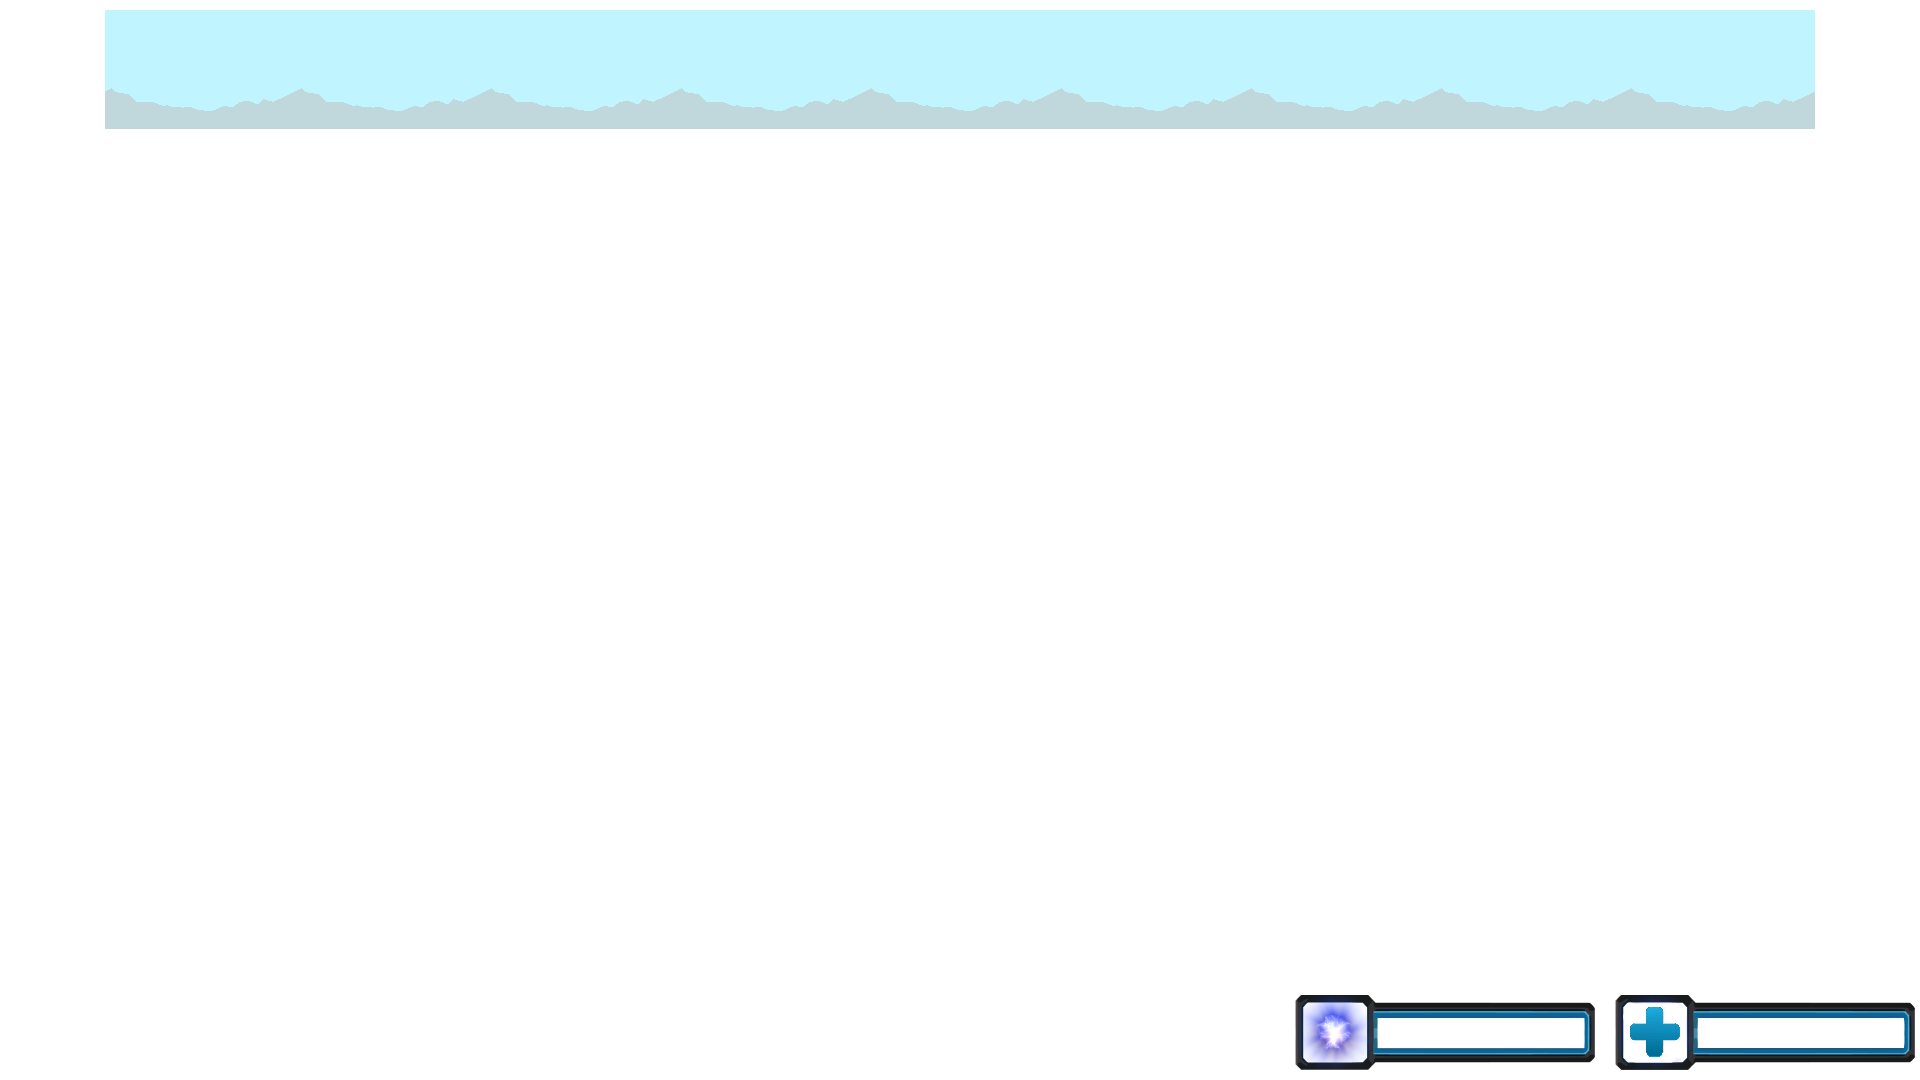
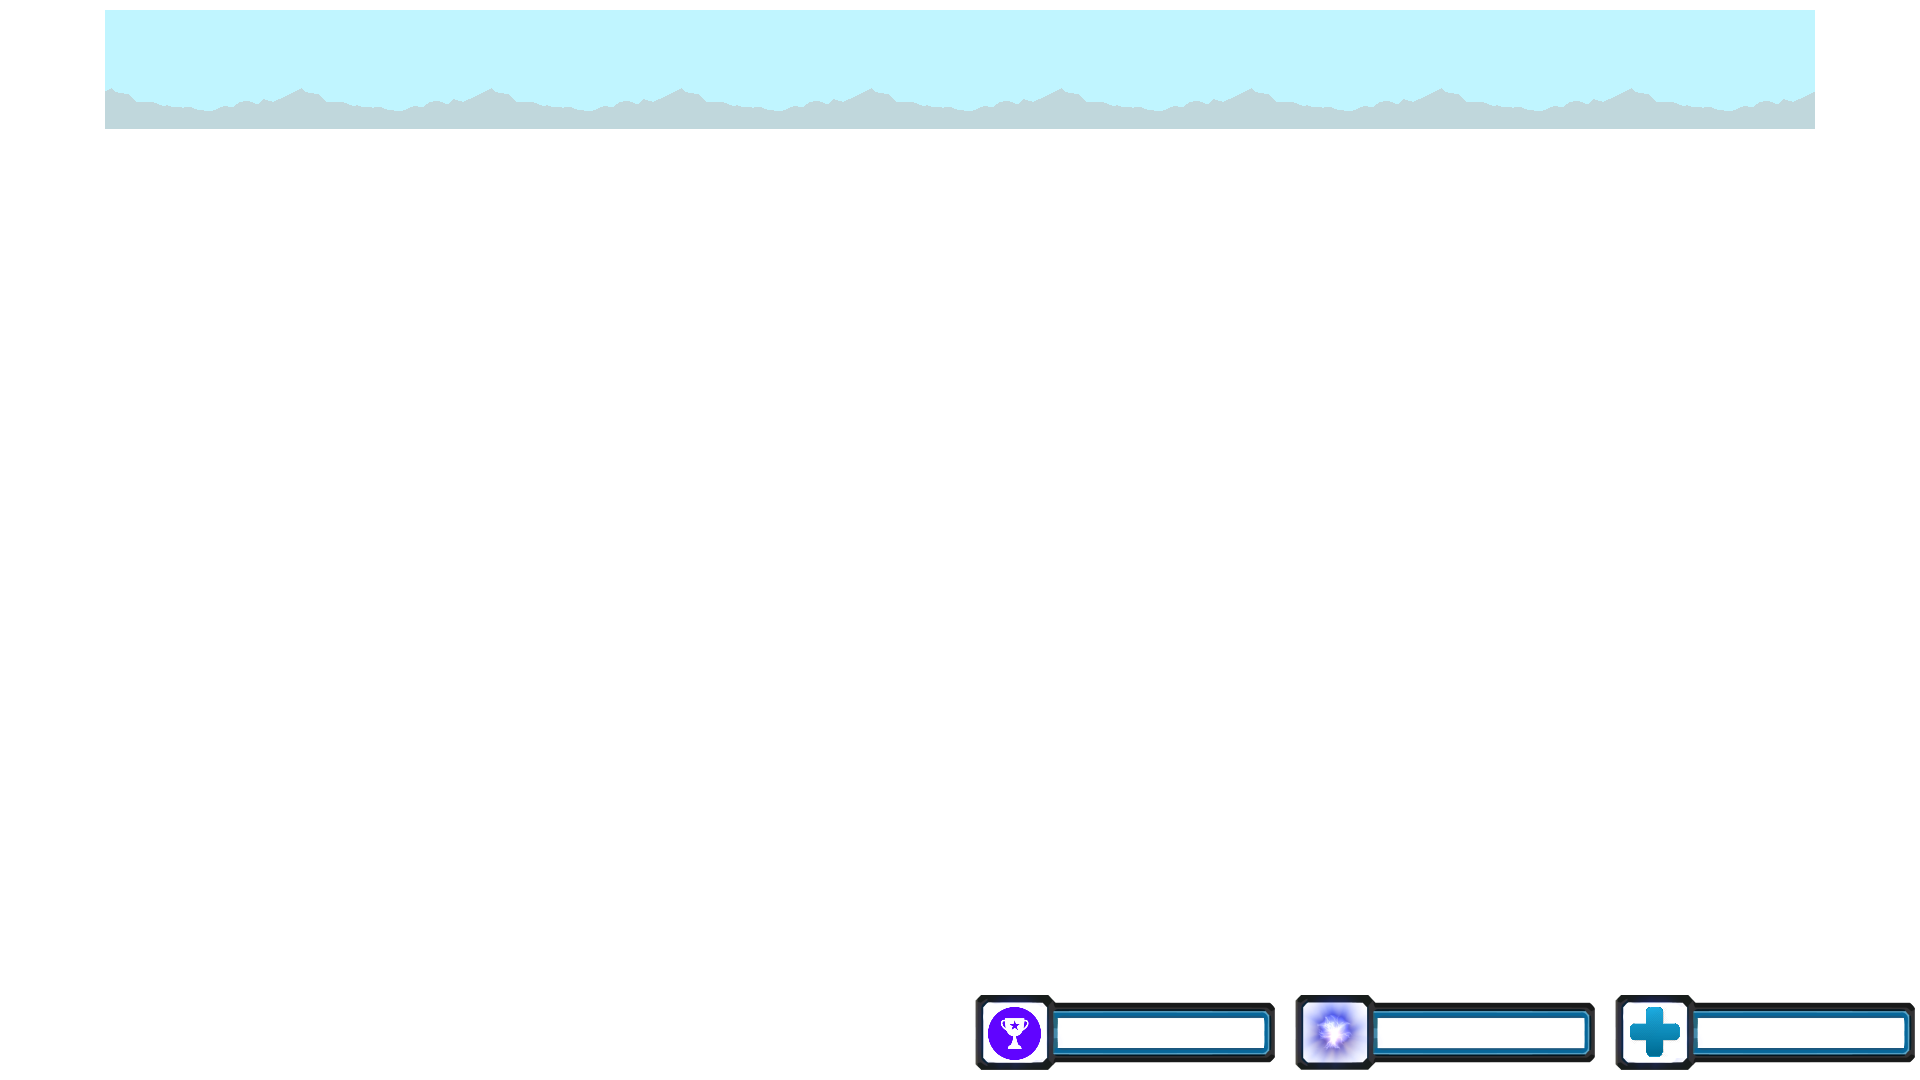
Added Score and notify player when astro is abducted

Changed region(s): [[0.5, 0.9167, 0.6875, 1.0]]

diff --git a/SFML Engine/SFML Engine/GameScene.cpp b/SFML Engine/SFML Engine/GameScene.cpp
@@ -1,7 +1,7 @@
 #include "stdafx.h"
 #include "GameScene.h"
 #include <iostream>
-
+#include "Score.h"
 
 
 GameScene::GameScene(SceneStack& stack, Context context)
@@ -16,6 +16,8 @@ GameScene::GameScene(SceneStack& stack, Context context)
 	, m_playRipple(false)
 	, m_playo(new Player())
 	, m_canUpdateRadar(false)
+	, m_score(0)
+	, m_displayingAstroText(0)
 {
 	// DEBUGGING CODE
 	/////////////////////////////////////////////
@@ -32,6 +34,14 @@ GameScene::GameScene(SceneStack& stack, Context context)
 	/////////////////////////////////////////////
 
 	// Check player world bounds " X value is MIN / Y value is MAX of the X Position"
+
+	m_scoreText.setFont(context.fonts->get(Fonts::PS2P));				// Gets and Sets the font from Resourse Holder
+	m_scoreText.setCharacterSize(50);
+	m_scoreText.setPosition(context.window->getSize().x * 0.56, context.window->getSize().y * 0.925);
+
+	m_aliveAstrosText.setFont(context.fonts->get(Fonts::PS2P));				// Gets and Sets the font from Resourse Holder
+	m_aliveAstrosText.setCharacterSize(70);
+	m_aliveAstrosText.setPosition(context.window->getSize().x * 0.05, context.window->getSize().y * 0.91);
 
 	// Init Astros - Give the random Values
 	for (int i = 0; i < NUM_OF_ASTROS; i++)
@@ -187,6 +197,8 @@ void GameScene::draw()
 
 	// Set the camera view
 	window.setView(m_camera.Update(m_currPlayerPos.x));
+
+	//Add the score to the string
 	
 	// Draw game entities
 	if (m_playShockwave)
@@ -194,9 +206,10 @@ void GameScene::draw()
 	else if(m_playRipple)
 		window.draw(m_sprite, m_ripple);
 	else
+	{
 		window.draw(m_sprite);
 		window.draw(m_playo->draw());
-	
+
 		if (!m_playRipple)
 		{
 			for (int i = 0; i < m_nests.size(); ++i)
@@ -238,41 +251,62 @@ void GameScene::draw()
 				window.draw(m_gasClouds[i]->draw());
 			}
 		}
+	}
 		
-		// DEBUGGING CODE
-		/////////////////////////////////////////////
-		window.draw(m_screenView);
-		window.draw(m_playerCutOff);
-		window.draw(m_nests[0]->drawEvade());
-		window.draw(m_nests[0]->drawFire());
-		window.draw(m_playo->drawPlayerOutline());
-		/////////////////////////////////////////////
-	
-		window.setView(window.getDefaultView());
-		window.draw(m_hud.drawRectangle());
-		window.draw(m_hud.drawHealthRect());
-		window.draw(m_hud.draw());
+	// DEBUGGING CODE
+	/////////////////////////////////////////////
+	window.draw(m_screenView);
+	window.draw(m_playerCutOff);
+	window.draw(m_nests[0]->drawEvade());
+	window.draw(m_nests[0]->drawFire());
+	window.draw(m_playo->drawPlayerOutline());
+	/////////////////////////////////////////////
 
-		for (int i = 0; i < m_radarIcons.size(); i++)
+	window.setView(window.getDefaultView());
+	window.draw(m_hud.drawRectangle());
+	window.draw(m_hud.drawHealthRect());
+	window.draw(m_hud.draw());
+
+	for (int i = 0; i < m_radarIcons.size(); i++)
+	{
+		if (m_astronauts[i]->isAlive() == true)
 		{
-			if (m_astronauts[i]->isAlive() == true)
+			m_radarIcons[i].setPosition((m_astronauts[i]->getPosition().x + m_screenSize.x) / 9, (m_astronauts[i]->getPosition().y / 9) + 10);
+			if (m_astronauts[i]->getState() == m_astronauts[i]->Abducted)
 			{
-				m_radarIcons[i].setPosition((m_astronauts[i]->getPosition().x + m_screenSize.x) / 9, (m_astronauts[i]->getPosition().y /9) + 10);
-				if (m_astronauts[i]->getState() == m_astronauts[i]->Abducted)
-				{
-					m_radarIcons[i].setFillColor(sf::Color::Red);
-				}
-				else
-				{
-					m_radarIcons[i].setFillColor(sf::Color::Green);
-				}
-				window.draw(m_radarIcons[i]);
+				m_radarIcons[i].setFillColor(sf::Color::Red);
 			}
+			else
+			{
+				m_radarIcons[i].setFillColor(sf::Color::Green);
+			}
+			window.draw(m_radarIcons[i]);
 		}
-		m_radarScreen.setPosition(((m_currPlayerPos.x + m_screenSize.x) / 9), 69);
-		m_playerRadar.setPosition(((m_currPlayerPos.x + m_screenSize.x) / 9), (m_currPlayerPos.y / 9) + 10);
-		window.draw(m_playerRadar);
-		window.draw(m_radarScreen);
+	}
+	m_radarScreen.setPosition(((m_currPlayerPos.x + m_screenSize.x) / 9), 69);
+	m_playerRadar.setPosition(((m_currPlayerPos.x + m_screenSize.x) / 9), (m_currPlayerPos.y / 9) + 10);
+	window.draw(m_playerRadar);
+	window.draw(m_radarScreen);
+
+	std::string score = std::to_string(Score::Instance()->getScore());
+	m_scoreText.setString(score);
+	window.draw(m_scoreText);
+
+	if (Score::Instance()->canDisplayAstroText() == true)
+	{
+		m_displayingAstroText++;
+
+		std::string astrosRemaining = std::to_string(Score::Instance()->getAliveAstros());
+		m_aliveAstrosText.setString("Astronauts Remaining: " + astrosRemaining);
+		window.draw(m_aliveAstrosText);
+		if (m_displayingAstroText >= 50)
+		{
+			Score::Instance()->setDisplayAstroText(false);
+			m_displayingAstroText = 0;
+		}
+	}
+
+
 	
 }
 

diff --git a/SFML Engine/SFML Engine/Score.cpp b/SFML Engine/SFML Engine/Score.cpp
@@ -1,0 +1,52 @@
+#include "stdafx.h"
+#include "Score.h"
+
+Score * Score::m_inst = nullptr;
+Score::Score()
+	: m_score(0)
+	, m_numOfAliveAstros(20)
+{
+}
+Score::~Score()
+{
+}
+
+Score * Score::Instance()
+{
+	if (!m_inst)
+	{
+		m_inst = new Score();
+	}
+	return m_inst;
+}
+
+void Score::increaseScore(int score)
+{
+	m_score += score;
+}
+
+int Score::getScore()
+{
+	return m_score;
+}
+
+int Score::getAliveAstros()
+{
+	return m_numOfAliveAstros;
+}
+
+void Score::removeAstro()
+{
+	m_numOfAliveAstros--;
+	m_displayAstroText = true;
+}
+
+bool Score::canDisplayAstroText()
+{
+	return m_displayAstroText;
+}
+
+void Score::setDisplayAstroText(int can)
+{
+	m_displayAstroText = can;
+}

diff --git a/SFML Engine/SFML Engine/Alien.cpp b/SFML Engine/SFML Engine/Alien.cpp
@@ -1,5 +1,6 @@
 #include "stdafx.h"
 #include "Alien.h"
+#include "Score.h"
 
 
 Alien::Alien(sf::Texture & tex, sf::Vector2i screenBounds, sf::Vector2i worldBounds)
@@ -253,6 +254,7 @@ bool Alien::updateTargetCapture(sf::Time dt)
 			m_alive = false;
 			m_astro->setAlive(false);
 			m_astro = NULL;
+			Score::Instance()->removeAstro();
 		}
 
 	}
@@ -329,6 +331,10 @@ void Alien::setDamage(int damage)
 	m_health -= damage;
 	if (m_health <= 0)
 	{
+		if (m_currAnimation != &m_animations[Anims::Explode])
+		{
+			Score::Instance()->increaseScore(50);
+		}
 		m_currentState = Dying;
 		m_currAnimation = &m_animations[Anims::Explode];
 		m_animatedSprite.setOrigin(40, 40);

diff --git a/SFML Engine/SFML Engine/Nest.cpp b/SFML Engine/SFML Engine/Nest.cpp
@@ -1,5 +1,6 @@
 #include "stdafx.h"
 #include "nest.h"
+#include "Score.h"
 
 Nest::Nest(sf::Texture & tex, sf::Vector2i screenBounds)
 	: m_alive(false)
@@ -182,11 +183,16 @@ void Nest::setDamage(int damage)
 	m_health -= damage;
 	if (m_health <= 0)
 	{
+		if (m_currAnimation != &m_animations[Anims::Explode])
+		{
+			Score::Instance()->increaseScore(200);
+		}
 		m_currAnimation = &m_animations[Anims::Explode];
 		m_animatedSprite.setOrigin(40, 40);
 		m_animatedSprite.setScale(4, 4);
 		m_health = 0;
 		m_animatedSprite.play(*m_currAnimation);
+
 	}
 }
 

diff --git a/SFML Engine/SFML Engine/Score.h b/SFML Engine/SFML Engine/Score.h
@@ -1,0 +1,29 @@
+#pragma once
+class Score
+{
+public:
+
+	static Score * Instance();
+	void increaseScore(int score);
+	int getScore();
+	int getAliveAstros();
+	void removeAstro();
+
+	bool canDisplayAstroText();
+	void setDisplayAstroText(int can);
+
+private:
+	static Score *m_inst;
+
+	// Disallow Copying
+	Score(const Score&);
+	Score& operator=(const Score&);
+
+	int m_score;
+	int m_numOfAliveAstros;
+	bool m_displayAstroText;
+
+	Score();
+	~Score();
+};
+

diff --git a/SFML Engine/SFML Engine/GameScene.h b/SFML Engine/SFML Engine/GameScene.h
@@ -59,6 +59,10 @@ private:
 	sf::RectangleShape m_playerCutOff;
 	sf::RectangleShape m_enemyCutOff;
 
+	int m_score;
+	sf::Text m_scoreText;
+	sf::Text m_aliveAstrosText;
+	float m_displayingAstroText;
 
 	// RADAR
 	std::vector<sf::CircleShape> m_radarIcons;
